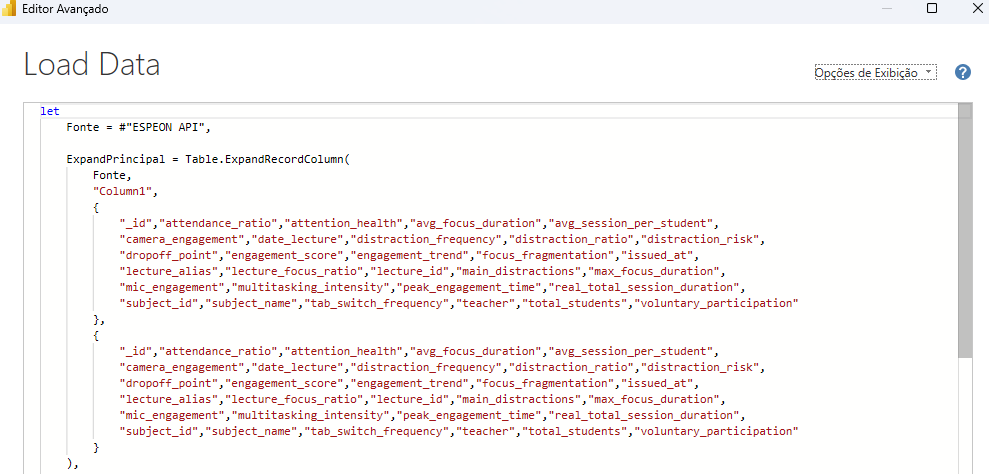
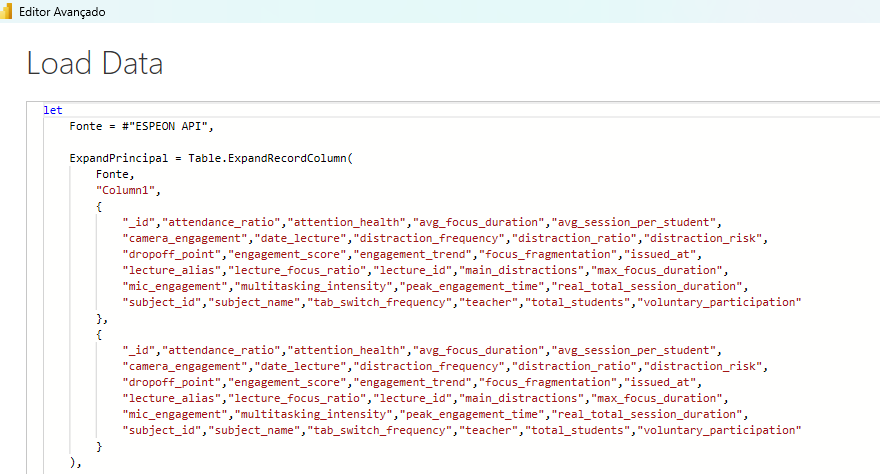
fix: resize das imagagens para visualização de dados

diff --git a/chapters/espeon/section.espeon_bi.tex b/chapters/espeon/section.espeon_bi.tex
@@ -14,7 +14,7 @@ A ingestão de dados é realizada no editor Power Query M, apontando diretamente
 
 \begin{figure}[H]
     \centering
-    \begin{minipage}{0.999\textwidth}
+    \begin{minipage}{0.8\textwidth}
         \centering
         \includegraphics[width=.9\textwidth]{espeon/bi_espeon_query.png}
         \caption{Consulta à API ESPEON}
@@ -22,11 +22,11 @@ A ingestão de dados é realizada no editor Power Query M, apontando diretamente
     \end{minipage}\hfill
 \end{figure}
 
-Os dados são retornados como \textit{records}, os quais devem ser expandidos para que se convertam em tabelas. A expansão consiste em mapear as colunas originais --- isto é, as propriedades retornadas pela API --- a partir de \textit{Column1}, obtendo-se o conteúdo estruturado como tabela, conforme indicado nas Figuras~\ref{fig:espeon_query_load} e~\ref{fig:espeon_query_expand}.
+Os dados são retornados como \textit{records}, os quais devem ser expandidos para que se convertam em tabelas, o que pode ser feito com a \textit{query} ilustrada na Figura~\ref{fig:espeon_query_load}. 
 
 \begin{figure}[H]
     \centering
-    \begin{minipage}{0.999\textwidth}
+    \begin{minipage}{0.8\textwidth}
         \centering
         \includegraphics[width=.9\textwidth]{espeon/bi_espeon_load.png}
         \caption{Carregamento de Dados}
@@ -34,12 +34,16 @@ Os dados são retornados como \textit{records}, os quais devem ser expandidos pa
     \end{minipage}\hfill
 \end{figure}
 
+A expansão consiste em mapear as colunas originais --- isto é, as propriedades retornadas pela API --- a partir de \textit{Column1}, obtendo-se o conteúdo estruturado como tabela, conforme indicado na Figura \ref{fig:espeon_query_expand}.
+
 \begin{figure}[H]
     \centering
-    \begin{minipage}{0.999\textwidth}
+    \begin{minipage}{0.8\textwidth}
         \centering
-        \includegraphics[width=.9\textwidth]{espeon/bi_espeon_expand.png}
+        \includegraphics[width=.9\textwidth]{espeon/bi_espeon_expand.jpeg}
         \caption{Coluna Expandida}
         \label{fig:espeon_query_expand}
     \end{minipage}\hfill
 \end{figure}
+
+Com isso, pode-se fechar e aplicar as consultas, tornando-as disponíveis para ingestão de dados nos gráficos do Power BI.
